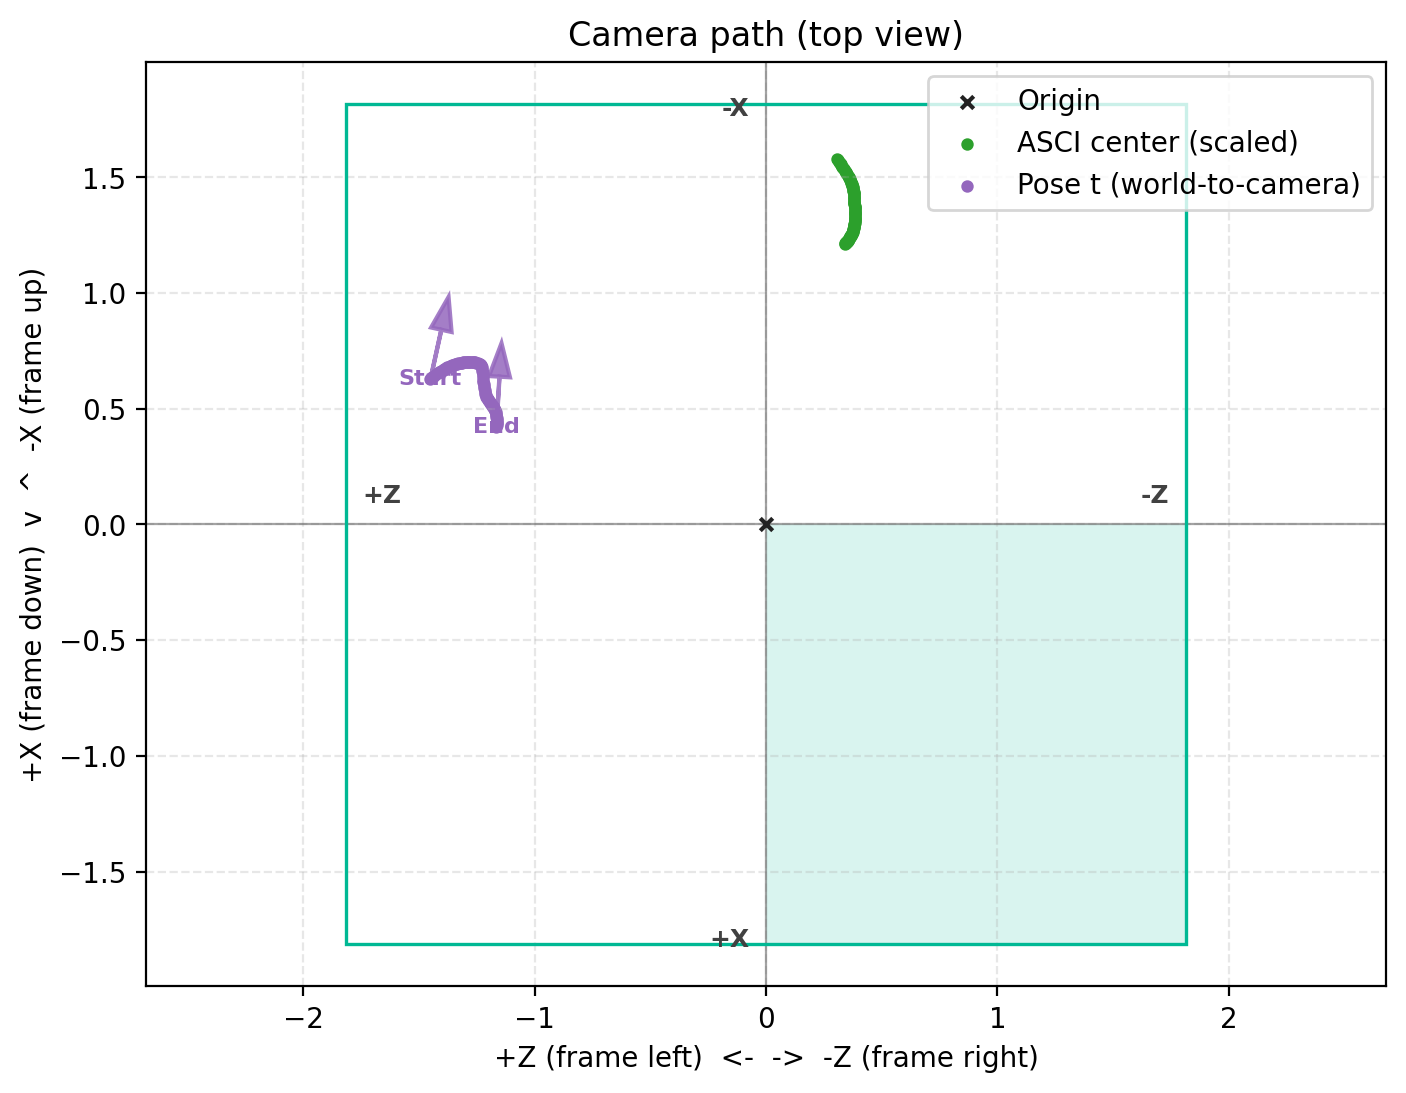
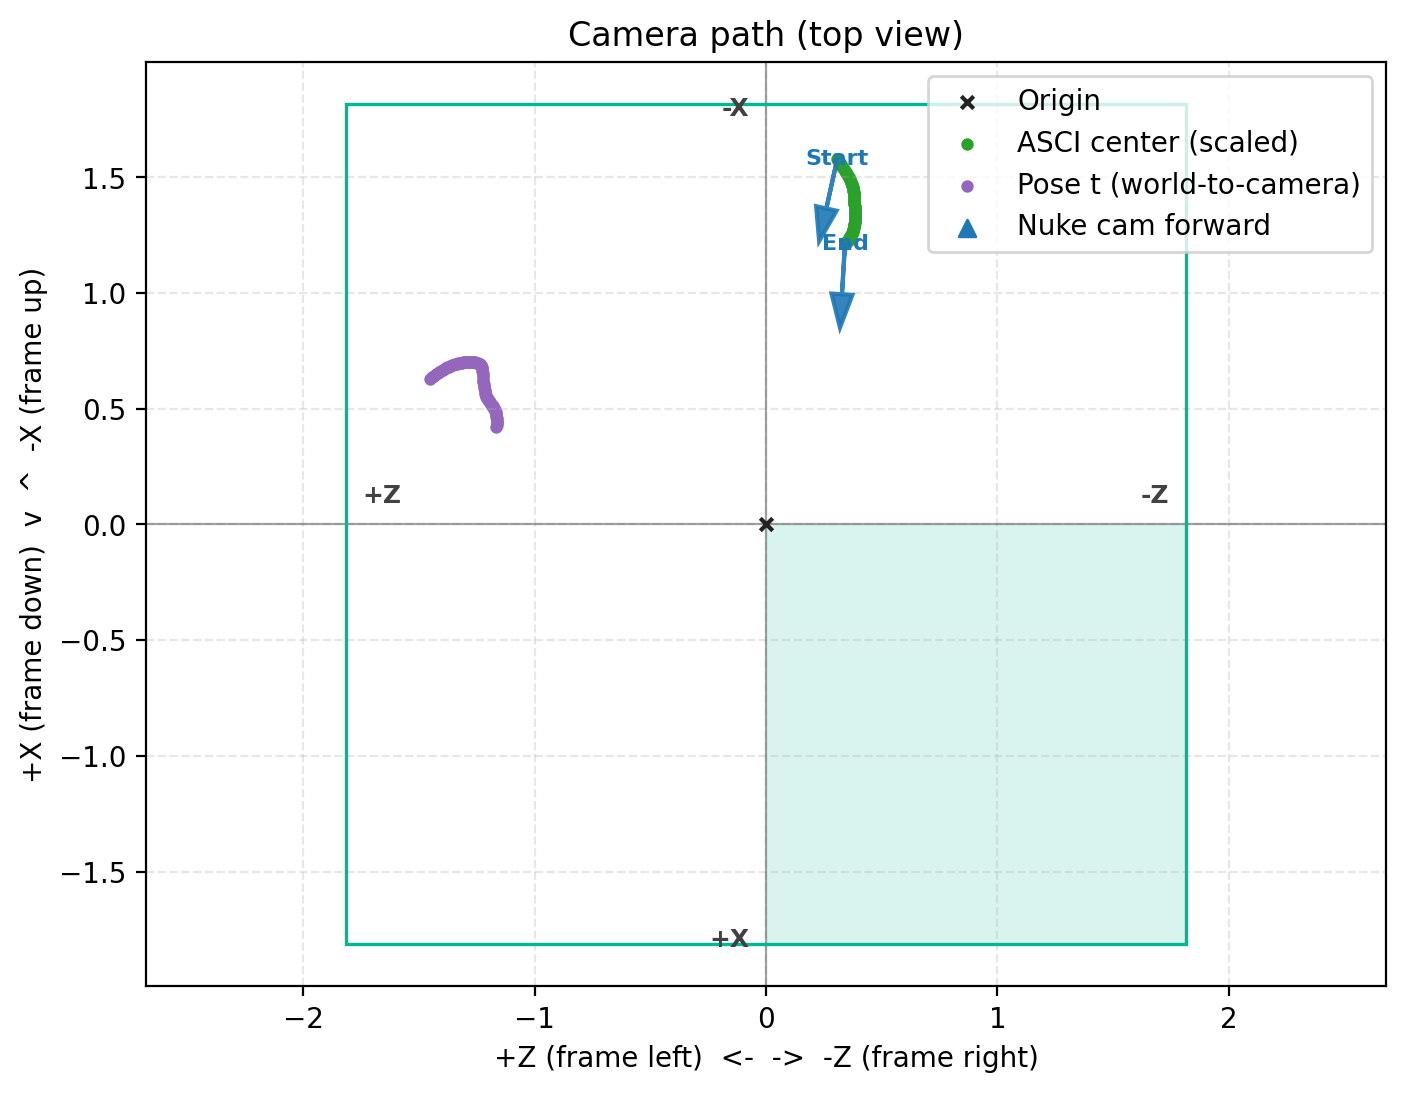
2D plot w. Rotation

diff --git a/nuke_CAM_exporter/testing_tools/plot_top_view.py b/nuke_CAM_exporter/testing_tools/plot_top_view.py
@@ -12,6 +12,7 @@ from __future__ import annotations
 
 import argparse
 import json
+import math
 from pathlib import Path
 from typing import Iterable, List, Sequence, Tuple
 
@@ -25,24 +26,83 @@ NUKE_HORIZONTAL_LABEL = "+Z (frame left)  <-  ->  -Z (frame right)"
 NUKE_VERTICAL_LABEL = "+X (frame down)  v  ^  -X (frame up)"
 
 
-def parse_translation_file(path: Path, limit: int | None) -> List[Tuple[float, float, float]]:
-    rows: List[Tuple[float, float, float]] = []
-    for line in path.read_text().splitlines():
-        stripped = line.strip()
-        if not stripped:
-            continue
-        parts = stripped.split()
-        if len(parts) >= 6:
-            # Combined ASCI: Tx Rx Ty Ry Tz Rz
+def euler_zxy_to_matrix(rx_rad: float, ry_rad: float, rz_rad: float) -> List[List[float]]:
+    sx, cx = math.sin(rx_rad), math.cos(rx_rad)
+    sy, cy = math.sin(ry_rad), math.cos(ry_rad)
+    sz, cz = math.sin(rz_rad), math.cos(rz_rad)
+
+    Rx = (
+        (1.0, 0.0, 0.0),
+        (0.0, cx, -sx),
+        (0.0, sx, cx),
+    )
+    Ry = (
+        (cy, 0.0, sy),
+        (0.0, 1.0, 0.0),
+        (-sy, 0.0, cy),
+    )
+    Rz = (
+        (cz, -sz, 0.0),
+        (sz, cz, 0.0),
+        (0.0, 0.0, 1.0),
+    )
+
+    def mat_mul(a, b):
+        return [
+            [
+                a[r][0] * b[0][c] + a[r][1] * b[1][c] + a[r][2] * b[2][c]
+                for c in range(3)
+            ]
+            for r in range(3)
+        ]
+
+    return mat_mul(Ry, mat_mul(Rx, Rz))
+
+
+def load_track_samples(
+    translation_path: Path,
+    rotation_path: Path | None,
+) -> List[dict]:
+    samples: List[dict] = []
+
+    def append_sample(tx: float, ty: float, tz: float, rx_deg: float | None, ry_deg: float | None, rz_deg: float | None):
+        forward = None
+        if rx_deg is not None and ry_deg is not None and rz_deg is not None:
+            R = euler_zxy_to_matrix(
+                math.radians(rx_deg),
+                math.radians(ry_deg),
+                math.radians(rz_deg),
+            )
+            # Camera in Nuke looks toward -Z (viewing down the negative Z axis)
+            forward = (-R[0][2], -R[1][2], -R[2][2])
+        samples.append({"translation": (tx, ty, tz), "forward": forward})
+
+    lines = [l.strip() for l in translation_path.read_text().splitlines() if l.strip()]
+    if rotation_path:
+        rot_lines = [l.strip() for l in rotation_path.read_text().splitlines() if l.strip()]
+        if len(lines) != len(rot_lines):
+            raise ValueError("Translation and rotation ASCI files must have the same number of lines.")
+        for t_line, r_line in zip(lines, rot_lines):
+            tx, ty, tz = map(float, t_line.split()[:3])
+            rx_deg, ry_deg, rz_deg = map(float, r_line.split()[:3])
+            append_sample(tx, ty, tz, rx_deg, ry_deg, rz_deg)
+    else:
+        for line in lines:
+            parts = line.split()
+            if len(parts) < 6:
+                raise ValueError(
+                    "Combined ASCI expected 6 columns per line (Tx Rx Ty Ry Tz Rz). "
+                    f"Got {len(parts)} columns: {line}"
+                )
             tx = float(parts[0])
+            rx_deg = float(parts[1])
             ty = float(parts[2])
+            ry_deg = float(parts[3])
             tz = float(parts[4])
-        else:
-            tx, ty, tz = map(float, parts[:3])
-        rows.append((tx, ty, tz))
-        if limit is not None and len(rows) >= limit:
-            break
-    return rows
+            rz_deg = float(parts[5])
+            append_sample(tx, ty, tz, rx_deg, ry_deg, rz_deg)
+
+    return samples
 
 
 def parse_pose_file(path: Path, limit: int | None) -> List[dict]:
@@ -101,6 +161,7 @@ def build_parser() -> argparse.ArgumentParser:
     parser = argparse.ArgumentParser(description="Top-view plot of camera path (Nuke-style top view).")
     parser.add_argument("--config", type=Path, help="Optional JSON config (same format as converter).")
     parser.add_argument("--translation", type=Path, help="Translation ASCI file (Tx Ty Tz).")
+    parser.add_argument("--rotation", type=Path, help="Rotation ASCI file (Rx Ry Rz) when exports are split.")
     parser.add_argument(
         "--pose",
         type=Path,
@@ -154,8 +215,10 @@ def main() -> None:
         return resolve_path(config, config_key)
 
     translation_path = resolved_path(args.translation, "input_translation")
+    rotation_path = resolved_path(args.rotation, "input_rotation")
     if translation_path is None:
         translation_path = resolved_path(None, "input")
+        rotation_path = None
     if translation_path is None:
         parser.error("Translation source missing (pass --translation or provide input/_translation in config).")
 
@@ -170,12 +233,17 @@ def main() -> None:
         if limit is None and frame_cfg.get("end") is not None:
             limit = max(0, frame_cfg["end"] - start_idx)
 
-    translation_rows = parse_translation_file(translation_path, None)
-    translation_rows = translation_rows[start_idx:]
+    track_samples = load_track_samples(translation_path, rotation_path)
+    track_samples = track_samples[start_idx:]
     if limit is not None:
-        translation_rows = translation_rows[:limit]
-    translation_rows = scale_rows(translation_rows, unit_scale)
-    tx, _, tz = split_axes(translation_rows)
+        track_samples = track_samples[:limit]
+
+    for sample in track_samples:
+        tx, ty, tz = sample["translation"]
+        sample["translation"] = (tx * unit_scale, ty * unit_scale, tz * unit_scale)
+
+    translations_scaled = [sample["translation"] for sample in track_samples]
+    tx, _, tz = split_axes(translations_scaled)
 
     def orient_axes(xs: Sequence[float], zs: Sequence[float]) -> Tuple[List[float], List[float]]:
         horiz, vert = (list(zs), list(xs)) if NUKE_SWAP_AXES else (list(xs), list(zs))
@@ -190,6 +258,7 @@ def main() -> None:
         return hx[0], hy[0]
 
     hx, hy = orient_axes(tx, tz)
+    track_screen_points = list(zip(hx, hy))
 
     fig, ax = plt.subplots(figsize=(8, 6))
     ax.axhline(0.0, color="#666666", linewidth=0.8, alpha=0.6)
@@ -257,15 +326,15 @@ def main() -> None:
         ax.text(half - pad, pad, "-Z", ha="right", va="bottom", **label_kwargs)
         ax.text(-pad, -half + pad, "+X", ha="right", va="top", **label_kwargs)
         ax.text(-pad, half - pad, "-X", ha="right", va="bottom", **label_kwargs)
-        if pose_rows and pose_screen_points:
+        nuke_forward_samples = [s for s in track_samples if s["forward"] is not None]
+        if nuke_forward_samples:
             arrow_scale = max(half * 0.2, 0.05)
             head_width = half * 0.05
             head_length = half * 0.08
             for idx, label in ((0, "Start"), (-1, "End")):
-                base_x, base_y = pose_screen_points[idx]
-                forward = pose_rows[idx]["R"]
-                world_forward = (forward[0][2], forward[1][2], forward[2][2])
-                dir_x, dir_y = orient_point(world_forward[0], world_forward[2])
+                base_x, base_y = track_screen_points[idx]
+                forward = track_samples[idx]["forward"]
+                dir_x, dir_y = orient_point(forward[0], forward[2])
                 ax.arrow(
                     base_x,
                     base_y,
@@ -274,22 +343,23 @@ def main() -> None:
                     head_width=head_width,
                     head_length=head_length,
                     length_includes_head=True,
-                    color="tab:purple",
+                    color="tab:blue",
                     linewidth=1.5,
-                    alpha=0.85,
+                    alpha=0.9,
                     zorder=4,
                 )
                 ax.text(
                     base_x,
                     base_y,
                     label,
-                    color="tab:purple",
+                    color="tab:blue",
                     fontsize=8,
                     fontweight="bold",
                     ha="center",
                     va="center",
                     zorder=5,
                 )
+            ax.scatter([], [], marker="^", color="tab:blue", label="Nuke cam forward")
     ax.set_title("Camera path (top view)")
     ax.axis("equal")
     ax.grid(True, linestyle="--", alpha=0.3)

diff --git a/nuke_CAM_exporter/docs/README.md b/nuke_CAM_exporter/docs/README.md
@@ -191,6 +191,6 @@ What you get:
 - Purple curve = world→camera translations from the converted TXT.
 - 1×1 m square centered on origin with the +Z / -X quadrant shaded (mirrors the Nuke viewport).
 - Axis labels explicitly show frame directions (`+Z (frame left)`, `+X (frame down)`).
-- Purple cones/arrows at the first and last poses indicate the camera’s facing direction within the same top view.
+- Blue cones/arrows at the first and last Nuke keyframes show the camera’s facing direction within the same top view.
 
 Use this plot to verify the camera lives in the expected quadrant or to explain offsets before re-rendering. The script respects the same config that drives the converter, so you only need to keep one JSON per shot.